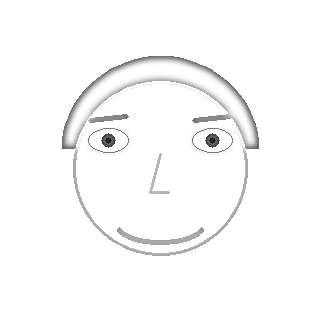
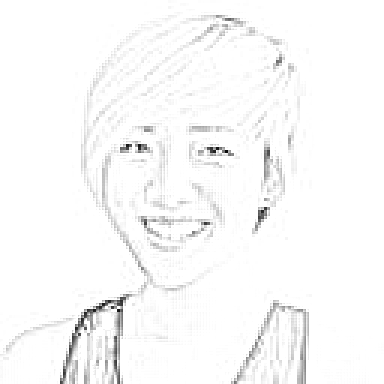
Replace synthetic samples with real face photos; tidy gallery preview into expander

diff --git a/download_real_faces.py b/download_real_faces.py
@@ -1,0 +1,92 @@
+"""
+Download real face photos to replace the synthetic drawn samples, and
+regenerate matching sketches + realistic hand-drawn query sketches.
+
+Source: randomuser.me portrait set — free-to-use portrait photos served as
+direct JPEGs. Good, clean faces for a demo gallery.
+
+Run:  python download_real_faces.py
+"""
+
+import os
+import time
+import urllib.request
+import ssl
+
+import cv2
+import numpy as np
+
+import engine
+import generate_test_queries  # reuse hand_drawn() for realistic queries
+
+BASE = os.path.dirname(__file__)
+PHOTOS_DIR = os.path.join(BASE, "samples", "photos")
+SKETCHES_DIR = os.path.join(BASE, "samples", "sketches")
+QUERIES_DIR = os.path.join(BASE, "test_queries")
+
+# A curated spread of distinct portrait faces from randomuser.me
+FACE_URLS = [
+    "https://randomuser.me/api/portraits/men/32.jpg",
+    "https://randomuser.me/api/portraits/women/44.jpg",
+    "https://randomuser.me/api/portraits/men/75.jpg",
+    "https://randomuser.me/api/portraits/women/68.jpg",
+    "https://randomuser.me/api/portraits/men/12.jpg",
+]
+TARGET = 384  # output size (square)
+
+
+def fetch(url: str) -> np.ndarray | None:
+    ctx = ssl.create_default_context()
+    ctx.check_hostname = False
+    ctx.verify_mode = ssl.CERT_NONE
+    req = urllib.request.Request(url, headers={"User-Agent": "Mozilla/5.0"})
+    try:
+        with urllib.request.urlopen(req, context=ctx, timeout=30) as resp:
+            data = resp.read()
+        img = cv2.imdecode(np.frombuffer(data, np.uint8), cv2.IMREAD_COLOR)
+        return img
+    except Exception as exc:
+        print(f"  download failed for {url}: {exc}")
+        return None
+
+
+def clean_dir(path):
+    os.makedirs(path, exist_ok=True)
+    for f in os.listdir(path):
+        if f.lower().endswith((".png", ".jpg", ".jpeg")):
+            os.remove(os.path.join(path, f))
+
+
+def main():
+    print("Downloading real face photos...")
+    clean_dir(PHOTOS_DIR)
+    clean_dir(SKETCHES_DIR)
+    clean_dir(QUERIES_DIR)
+
+    saved = 0
+    for i, url in enumerate(FACE_URLS):
+        img = fetch(url)
+        if img is None:
+            continue
+        img = cv2.resize(img, (TARGET, TARGET), interpolation=cv2.INTER_AREA)
+        name = f"person_{saved + 1}"
+
+        cv2.imwrite(os.path.join(PHOTOS_DIR, f"{name}.png"), img)
+        sketch = engine.photo_to_sketch(img)
+        cv2.imwrite(os.path.join(SKETCHES_DIR, f"{name}_sketch.png"), sketch)
+        query = generate_test_queries.hand_drawn(sketch, seed=200 + saved)
+        cv2.imwrite(os.path.join(QUERIES_DIR, f"{name}_query.png"), query)
+
+        saved += 1
+        print(f"  saved {name} ({saved}/{len(FACE_URLS)})")
+        time.sleep(0.5)
+
+    if saved == 0:
+        print("\nNo faces downloaded (no internet?). "
+              "Run generate_samples.py for synthetic fallback.")
+    else:
+        print(f"\nDone. {saved} real faces + sketches + queries created.")
+
+
+if __name__ == "__main__":
+    main()

diff --git a/app.py b/app.py
@@ -307,9 +307,10 @@ with tab_match:
                         unsafe_allow_html=True)
 
         if photos:
-            thumbs = st.columns(min(5, len(photos)))
-            for i, p in enumerate(photos[:5]):
-                thumbs[i].image(bgr_to_rgb(p["image"]), width="stretch")
+            with st.expander(f"👁 Preview gallery ({len(photos)} photos)", expanded=False):
+                thumbs = st.columns(min(5, len(photos)))
+                for i, p in enumerate(photos[:5]):
+                    thumbs[i].image(bgr_to_rgb(p["image"]), width="stretch")
 
     st.markdown("<br>", unsafe_allow_html=True)
     run = st.button("🚀  Find Matches", width="stretch")
